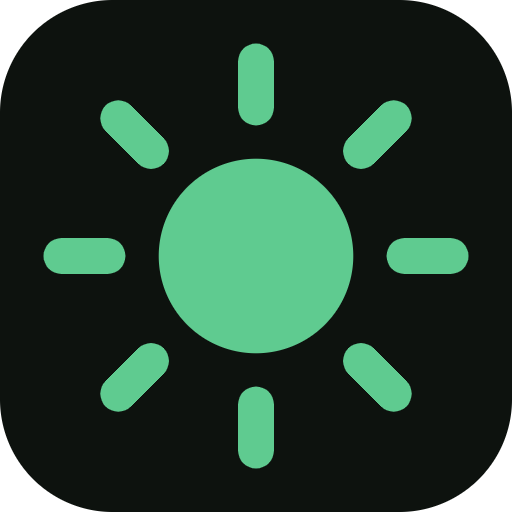
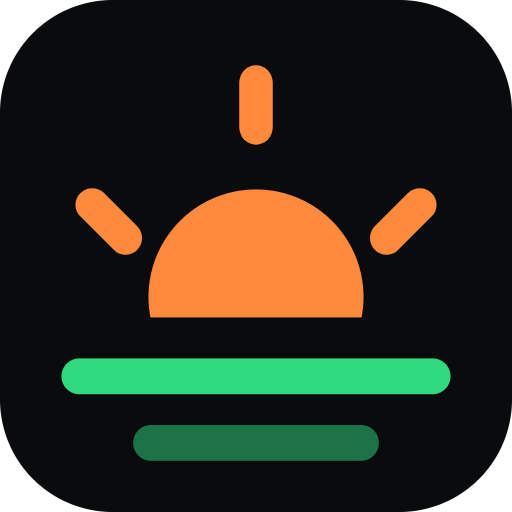
v5: el amanecer como marca de Light of Life Energy
Elegida la opcion B. El sol saliendo sobre dos lineas verdes: va con el
nombre, aguanta a 48 px y no se parece al sol generico que usa todo el
mundo en energia solar.

- Icono del telefono en 180, 192 y 512 px.
- Misma marca en la cabecera de la app, algo mas grande porque el
  amanecer ocupa menos alto que un sol entero.
- El disco se recorta con un clip en la linea del horizonte, no se tapa
  con un rectangulo del color del fondo: asi el dibujo vale sobre
  cualquier fondo, no solo sobre negro.

diff --git a/iconos.html b/iconos.html
@@ -1,0 +1,217 @@
+<meta charset="utf-8">
+<meta name="viewport" content="width=device-width,initial-scale=1">
+<title>Cuatro iconos para LLEnergy</title>
+<link rel="preconnect" href="https://fonts.googleapis.com">
+<link rel="preconnect" href="https://fonts.gstatic.com" crossorigin>
+<link rel="stylesheet" href="https://fonts.googleapis.com/css2?family=Archivo:wght@600;700;800&family=IBM+Plex+Sans:wght@400;500;600&family=IBM+Plex+Mono:wght@500;600;700&display=swap">
+
+<style>
+:root{
+  --negro:#0A0B0D; --panel:#15181C; --panel2:#1D2127;
+  --linea:#282E36; --linea2:#1F242B;
+  --blanco:#EEF2F6; --gris:#8B96A5; --gris2:#5C6675;
+  --naranja:#FF8A3C; --verde:#2FD97F;
+}
+*{box-sizing:border-box}
+body{background:var(--negro); color:var(--blanco);
+  font-family:"IBM Plex Sans",system-ui,sans-serif; font-size:16px; line-height:1.55;
+  -webkit-font-smoothing:antialiased}
+.wrap{max-width:1000px; margin:0 auto; padding-inline:18px; padding-block:28px 60px}
+h1,h2,h3{font-family:"Archivo",system-ui,sans-serif; margin:0; text-wrap:balance}
+
+header{border-bottom:1px solid var(--linea); padding-bottom:20px; margin-bottom:26px}
+header h1{font-size:clamp(28px,7vw,40px); font-weight:800; letter-spacing:-.02em; line-height:1.05}
+header p{color:var(--gris); margin:12px 0 0; max-width:58ch}
+header p b{color:var(--blanco)}
+
+.op{background:var(--panel); border:1px solid var(--linea); border-radius:16px;
+  padding:20px 18px; margin-bottom:16px}
+.op.gana{border-color:var(--naranja)}
+.op-top{display:flex; align-items:baseline; gap:10px; flex-wrap:wrap}
+.op h2{font-size:23px; font-weight:700}
+.marca{font-family:"IBM Plex Mono",monospace; font-size:9.5px; font-weight:700;
+  letter-spacing:.1em; text-transform:uppercase; padding:4px 9px; border-radius:6px;
+  background:rgba(255,138,60,.14); color:var(--naranja); border:1px solid rgba(255,138,60,.3)}
+.op .idea{color:var(--gris); font-size:14.5px; margin:8px 0 16px; max-width:56ch}
+.op .idea b{color:var(--blanco)}
+
+.tallas{display:flex; align-items:flex-end; gap:20px; flex-wrap:wrap;
+  padding:16px; background:var(--negro); border-radius:12px; border:1px solid var(--linea2)}
+.t{text-align:center}
+.t svg{display:block; border-radius:23%; background:var(--negro)}
+.t span{display:block; font-family:"IBM Plex Mono",monospace; font-size:9.5px;
+  color:var(--gris2); letter-spacing:.09em; margin-top:8px; text-transform:uppercase}
+.t.real span{color:var(--verde)}
+
+.inicio{margin-top:14px; background:linear-gradient(160deg,#101418,#080A0C);
+  border:1px solid var(--linea2); border-radius:16px; padding:18px 14px 14px}
+.inicio .et{font-family:"IBM Plex Mono",monospace; font-size:9px; letter-spacing:.11em;
+  text-transform:uppercase; color:var(--gris2); margin-bottom:14px; text-align:center}
+.rejilla{display:grid; grid-template-columns:repeat(4,1fr); gap:16px 8px; max-width:320px; margin:0 auto}
+.app{text-align:center}
+.app .ic{width:52px; height:52px; border-radius:23%; margin:0 auto;
+  background:#222830; border:1px solid var(--linea)}
+.app .ic svg{display:block; border-radius:23%; background:var(--negro)}
+.app .nm{font-size:10.5px; color:#C7CFD8; margin-top:6px; line-height:1.25; white-space:nowrap}
+.app.otro .nm{color:var(--gris2)}
+
+.lockup{margin-top:14px; display:flex; align-items:center; gap:11px;
+  background:var(--negro); border:1px solid var(--linea2); border-radius:12px; padding:15px 16px}
+.lockup .n{font-family:"Archivo",sans-serif; font-size:24px; font-weight:800; letter-spacing:-.02em}
+.lockup .n span{color:var(--naranja)}
+
+.veredicto{background:var(--panel); border:1px solid var(--linea);
+  border-radius:16px; padding:20px; margin-top:26px}
+.veredicto h3{font-size:21px; color:var(--naranja); font-weight:700}
+.veredicto p{margin:9px 0 0; color:var(--gris); font-size:15px}
+.veredicto p b{color:var(--blanco)}
+footer{margin-top:30px; padding-top:16px; border-top:1px solid var(--linea);
+  color:var(--gris2); font-size:13.5px}
+</style>
+
+<svg width="0" height="0" style="position:absolute" aria-hidden="true">
+  <symbol id="A" viewBox="0 0 100 100">
+    <circle cx="50" cy="44" r="17" fill="#FF8A3C"/>
+    <g stroke="#FF8A3C" stroke-width="6" stroke-linecap="round">
+      <path d="M50 12v8M22.2 44h-8M85.8 44h-8M28.6 22.6l5.7 5.7M71.4 22.6l-5.7 5.7"/></g>
+    <path d="M50 92c0-14 10-24 24-24 0 14-10 24-24 24z" fill="#2FD97F"/>
+    <path d="M50 92c0-14-10-24-24-24 0 14 10 24 24 24z" fill="#2FD97F" opacity=".55"/>
+  </symbol>
+  <symbol id="B" viewBox="0 0 100 100">
+    <circle cx="50" cy="58" r="21" fill="#FF8A3C"/>
+    <g stroke="#FF8A3C" stroke-width="6.5" stroke-linecap="round">
+      <path d="M50 16v9M18 40l6.5 6.5M82 40l-6.5 6.5"/></g>
+    <rect x="12" y="62" width="76" height="7" rx="3.5" fill="#0A0B0D"/>
+    <rect x="12" y="73" width="76" height="7" rx="3.5" fill="#2FD97F"/>
+    <rect x="26" y="84" width="48" height="7" rx="3.5" fill="#2FD97F" opacity=".5"/>
+  </symbol>
+  <symbol id="C" viewBox="0 0 100 100">
+    <circle cx="50" cy="50" r="30" fill="#FF8A3C"/>
+    <rect x="36" y="30" width="7" height="34" rx="3.5" fill="#0A0B0D"/>
+    <rect x="36" y="57" width="18" height="7" rx="3.5" fill="#0A0B0D"/>
+    <rect x="57" y="30" width="7" height="34" rx="3.5" fill="#0A0B0D"/>
+    <rect x="57" y="57" width="16" height="7" rx="3.5" fill="#0A0B0D"/>
+    <g stroke="#2FD97F" stroke-width="6" stroke-linecap="round">
+      <path d="M50 6v7M50 87v7M6 50h7M87 50h7"/></g>
+  </symbol>
+  <symbol id="D" viewBox="0 0 100 100">
+    <rect x="18" y="18" width="64" height="64" rx="9" fill="none" stroke="#FF8A3C" stroke-width="7"/>
+    <g stroke="#FF8A3C" stroke-width="5" stroke-linecap="round" opacity=".45">
+      <path d="M50 22v56M22 50h56"/></g>
+    <path d="M32 66 L50 34 L68 66" fill="none" stroke="#2FD97F" stroke-width="8"
+      stroke-linecap="round" stroke-linejoin="round"/>
+  </symbol>
+</svg>
+
+<div class="wrap">
+
+<header>
+  <h1>Cuatro iconos para LLEnergy</h1>
+  <p>Un icono no se juzga en grande: se juzga <b>al tamaño en que lo vas a ver</b>, y entre
+  los demás iconos de tu teléfono. Por eso cada uno va en tres tamaños y metido en una
+  pantalla de inicio de mentira. <b>Fíjate en el de 52 px</b> — ese es el de verdad.</p>
+</header>
+
+<div class="op" id="op-A">
+  <div class="op-top"><h2>A · Sol y hoja</h2></div>
+  <p class="idea">Sol naranja arriba, dos hojas verdes abajo. Dice <b>solar</b> y <b>renovable</b>
+  sin que haya que explicar nada. Es la apuesta segura: nadie se confunde.</p>
+  <div class="tallas">
+    <div class="t"><svg width="112" height="112"><use href="#A"/></svg><span>112 px</span></div>
+    <div class="t"><svg width="72" height="72"><use href="#A"/></svg><span>72 px</span></div>
+    <div class="t real"><svg width="52" height="52"><use href="#A"/></svg><span>52 px · el real</span></div>
+  </div>
+  <div class="inicio">
+    <div class="et">Así se ve en tu pantalla de inicio</div>
+    <div class="rejilla">
+      <div class="app otro"><div class="ic"></div><div class="nm">Ajustes</div></div>
+      <div class="app"><div class="ic"><svg width="52" height="52"><use href="#A"/></svg></div><div class="nm">LLEnergy</div></div>
+      <div class="app otro"><div class="ic"></div><div class="nm">Cámara</div></div>
+      <div class="app otro"><div class="ic"></div><div class="nm">WhatsApp</div></div>
+    </div>
+  </div>
+  <div class="lockup"><svg width="30" height="30" viewBox="0 0 100 100"><use href="#A"/></svg>
+    <div class="n">LL<span>Energy</span></div></div>
+</div>
+
+<div class="op gana" id="op-B">
+  <div class="op-top"><h2>B · Amanecer</h2><span class="marca">Elegida</span></div>
+  <p class="idea">El sol saliendo por encima de dos líneas verdes. Va con el nombre:
+  <b>Light of Life</b> es luz que sale. Es el que menos se parece a lo que hace todo el mundo
+  y el que mejor aguanta en pequeño, porque son cuatro formas gordas y nada más.</p>
+  <div class="tallas">
+    <div class="t"><svg width="112" height="112"><use href="#B"/></svg><span>112 px</span></div>
+    <div class="t"><svg width="72" height="72"><use href="#B"/></svg><span>72 px</span></div>
+    <div class="t real"><svg width="52" height="52"><use href="#B"/></svg><span>52 px · el real</span></div>
+  </div>
+  <div class="inicio">
+    <div class="et">Así se ve en tu pantalla de inicio</div>
+    <div class="rejilla">
+      <div class="app otro"><div class="ic"></div><div class="nm">Ajustes</div></div>
+      <div class="app"><div class="ic"><svg width="52" height="52"><use href="#B"/></svg></div><div class="nm">LLEnergy</div></div>
+      <div class="app otro"><div class="ic"></div><div class="nm">Cámara</div></div>
+      <div class="app otro"><div class="ic"></div><div class="nm">WhatsApp</div></div>
+    </div>
+  </div>
+  <div class="lockup"><svg width="30" height="30" viewBox="0 0 100 100"><use href="#B"/></svg>
+    <div class="n">LL<span>Energy</span></div></div>
+</div>
+
+<div class="op" id="op-C">
+  <div class="op-top"><h2>C · Sol partido en LL</h2></div>
+  <p class="idea">El disco naranja con las dos <b>L</b> recortadas dentro. Es el único que
+  lleva tu nombre metido en el dibujo. El pero: en pequeño las dos L se cierran y se leen
+  como una mancha.</p>
+  <div class="tallas">
+    <div class="t"><svg width="112" height="112"><use href="#C"/></svg><span>112 px</span></div>
+    <div class="t"><svg width="72" height="72"><use href="#C"/></svg><span>72 px</span></div>
+    <div class="t real"><svg width="52" height="52"><use href="#C"/></svg><span>52 px · el real</span></div>
+  </div>
+  <div class="inicio">
+    <div class="et">Así se ve en tu pantalla de inicio</div>
+    <div class="rejilla">
+      <div class="app otro"><div class="ic"></div><div class="nm">Ajustes</div></div>
+      <div class="app"><div class="ic"><svg width="52" height="52"><use href="#C"/></svg></div><div class="nm">LLEnergy</div></div>
+      <div class="app otro"><div class="ic"></div><div class="nm">Cámara</div></div>
+      <div class="app otro"><div class="ic"></div><div class="nm">WhatsApp</div></div>
+    </div>
+  </div>
+  <div class="lockup"><svg width="30" height="30" viewBox="0 0 100 100"><use href="#C"/></svg>
+    <div class="n">LL<span>Energy</span></div></div>
+</div>
+
+<div class="op" id="op-D">
+  <div class="op-top"><h2>D · Célula solar</h2></div>
+  <p class="idea">Un panel visto de frente con un rayo verde dentro. Claro y muy legible,
+  pero más frío: parece icono de <b>herramienta</b>, no de marca.</p>
+  <div class="tallas">
+    <div class="t"><svg width="112" height="112"><use href="#D"/></svg><span>112 px</span></div>
+    <div class="t"><svg width="72" height="72"><use href="#D"/></svg><span>72 px</span></div>
+    <div class="t real"><svg width="52" height="52"><use href="#D"/></svg><span>52 px · el real</span></div>
+  </div>
+  <div class="inicio">
+    <div class="et">Así se ve en tu pantalla de inicio</div>
+    <div class="rejilla">
+      <div class="app otro"><div class="ic"></div><div class="nm">Ajustes</div></div>
+      <div class="app"><div class="ic"><svg width="52" height="52"><use href="#D"/></svg></div><div class="nm">LLEnergy</div></div>
+      <div class="app otro"><div class="ic"></div><div class="nm">Cámara</div></div>
+      <div class="app otro"><div class="ic"></div><div class="nm">WhatsApp</div></div>
+    </div>
+  </div>
+  <div class="lockup"><svg width="30" height="30" viewBox="0 0 100 100"><use href="#D"/></svg>
+    <div class="n">LL<span>Energy</span></div></div>
+</div>
+
+<div class="veredicto">
+  <h3>Elegida: la B</h3>
+  <p>Es la que mejor se sostiene a 52 px, la que menos se repite por ahí, y la única que
+  cuenta el nombre en vez de solo decir «esto va de sol». <b>La A es la apuesta segura</b>:
+  todo el mundo la entiende al instante y nunca va a quedar mal.</p>
+  <p>Dime la letra y la dejo puesta en el icono del teléfono y en la cabecera de la app.
+  Si quieres mezclar algo de dos, también se puede.</p>
+</div>
+
+<footer>Light of Life Energy · LLEnergy · los iconos están dibujados con formas, no con fotos,
+para que se vean nítidos a cualquier tamaño.</footer>
+
+</div>

diff --git a/index.html b/index.html
@@ -57,7 +57,7 @@ a{color:var(--verde)}
   border-bottom:1px solid var(--linea2)}
 .top-fila{display:flex; align-items:center; justify-content:space-between; gap:10px}
 .logo{display:flex; align-items:center; gap:9px; min-width:0}
-.logo .sol{width:27px; height:27px; flex-shrink:0}
+.logo .sol{width:30px; height:30px; flex-shrink:0}
 .logo .n{font-family:"Archivo",sans-serif; font-size:22px; font-weight:800;
   letter-spacing:-.02em; line-height:1}
 .logo .n span{color:var(--naranja)}
@@ -253,12 +253,14 @@ input:focus-visible,select:focus-visible,textarea:focus-visible,button:focus-vis
 <div class="top">
   <div class="top-fila">
     <div class="logo">
-      <svg class="sol" viewBox="0 0 24 24" aria-hidden="true">
-        <circle cx="12" cy="12" r="5" fill="#FF8A3C"/>
-        <g stroke="#FF8A3C" stroke-width="2" stroke-linecap="round">
-          <path d="M12 1.5v2.6M12 19.9v2.6M22.5 12h-2.6M4.1 12H1.5"/>
-          <path d="M19.4 4.6l-1.8 1.8M6.4 17.6l-1.8 1.8M19.4 19.4l-1.8-1.8M6.4 6.4L4.6 4.6"/>
+      <svg class="sol" viewBox="0 0 100 100" aria-hidden="true">
+        <defs><clipPath id="llHorizonte"><rect x="0" y="0" width="100" height="62"/></clipPath></defs>
+        <circle cx="50" cy="58" r="21" fill="#FF8A3C" clip-path="url(#llHorizonte)"/>
+        <g stroke="#FF8A3C" stroke-width="6.5" stroke-linecap="round">
+          <path d="M50 16v9M18 40l6.5 6.5M82 40l-6.5 6.5"/>
         </g>
+        <rect x="12" y="70" width="76" height="7" rx="3.5" fill="#2FD97F"/>
+        <rect x="26" y="83" width="48" height="7" rx="3.5" fill="#2FD97F" opacity=".5"/>
       </svg>
       <div class="n">LL<span>Energy</span></div>
     </div>

diff --git a/sw.js b/sw.js
@@ -12,7 +12,7 @@
    almacenamiento del navegador, no aquí.
    ═══════════════════════════════════════════════════════════════════════ */
 
-const VERSION = 'llenergy-v4';
+const VERSION = 'llenergy-v5';
 
 const ARCHIVOS = [
   './',
